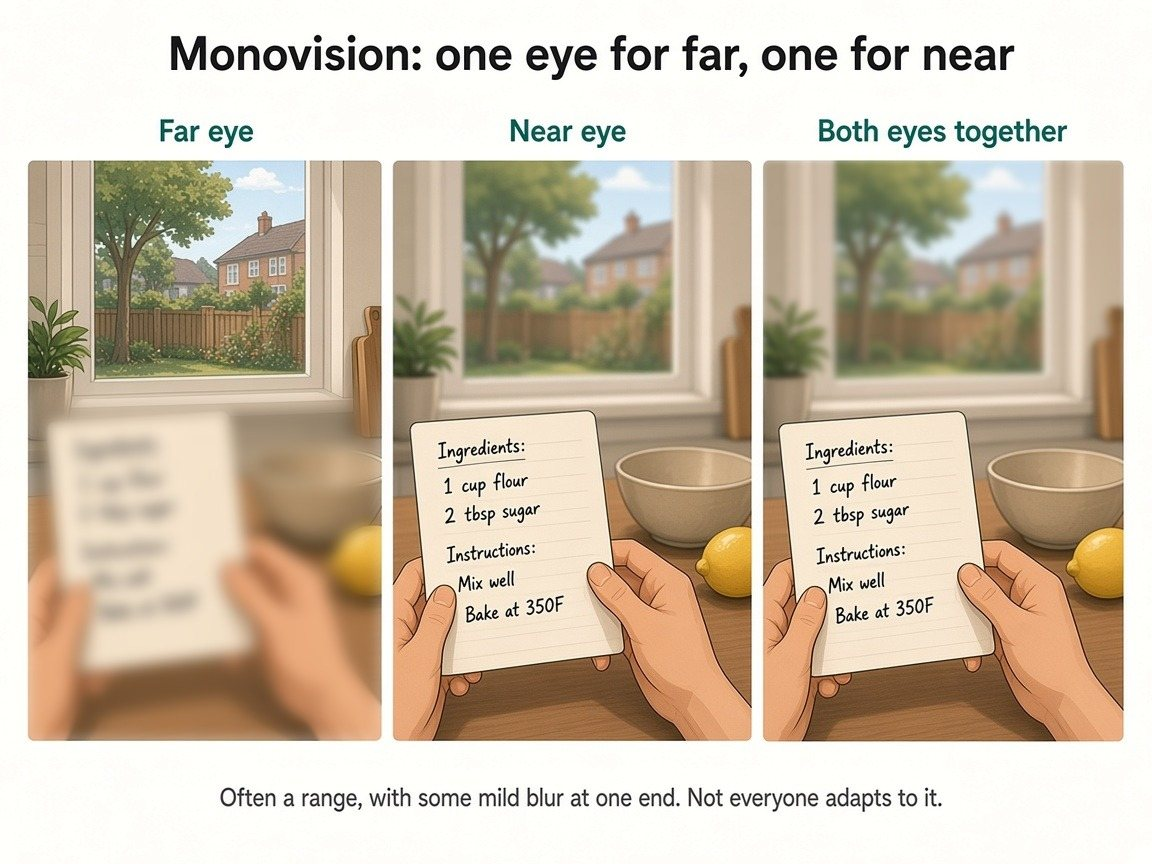
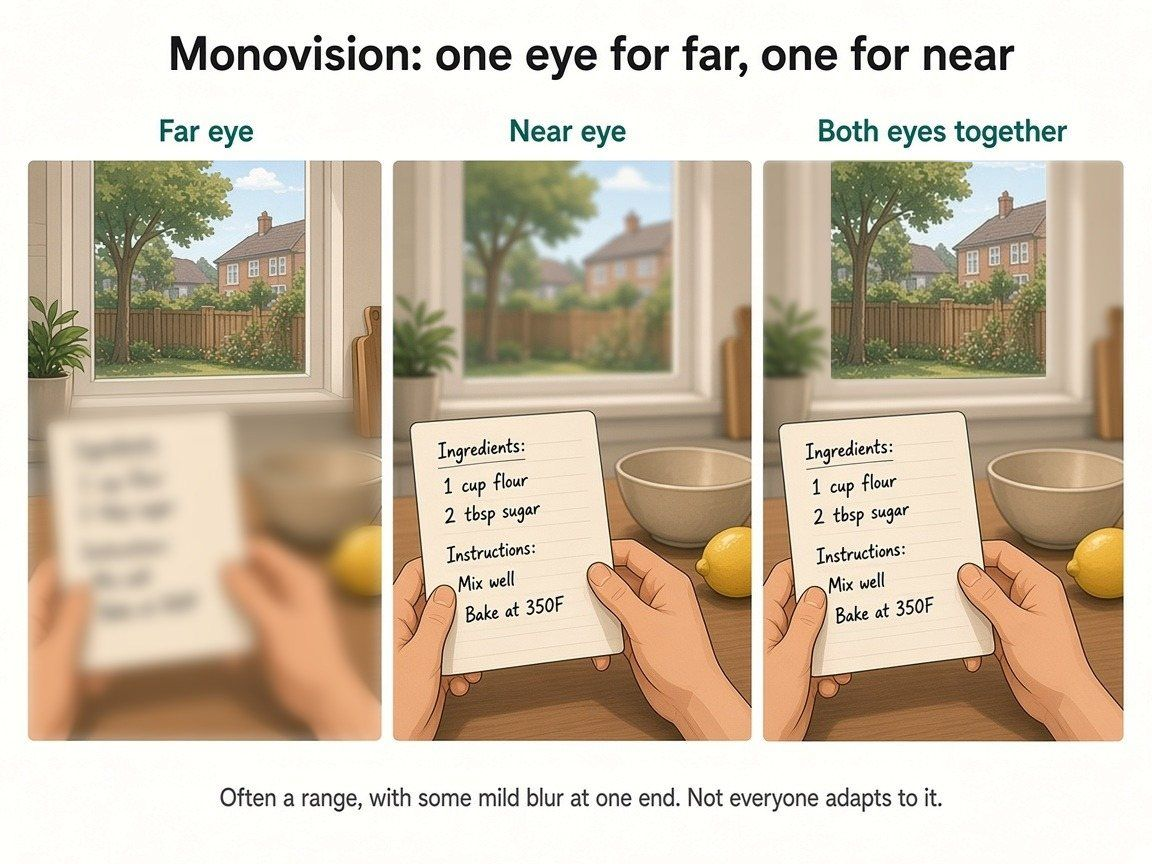
Fix monovision illustration: both distance and near in focus in panel 3
Panel 3 ("Both eyes together") incorrectly showed a blurred garden,
matching the near-eye panel. The sharp garden from panel 1 is now
composited into panel 3's window so both the garden and the recipe
card are in focus. Labels and caption are unchanged.

Cache-bust monovision image URLs with ?v=2.

Changed region(s): [[0.7188, 0.1875, 0.9062, 0.4375]]

diff --git a/index.html b/index.html
@@ -431,7 +431,7 @@
     <span class="kicker">Explore by topic</span>
     <h2>Read only what you need.</h2>
     <p class="concept">Every topic has its own page. Jump in anywhere, come back anytime.</p>
-    <div class="topic-grid"><a class="topic c0" href="/monofocal-vs-multifocal-vs-edof-lens" data-guide-cta="home_topic_lens_types"><div class="t-media"><picture><source srcset="/images/lens-guide/lens-guide-lens-types.webp" type="image/webp"><img src="/images/lens-guide/lens-guide-lens-types.jpg" width="1152" height="864" alt="" decoding="async" loading="lazy" style="object-position:center 0%"></picture></div><div class="t-body"><span class="t-chip"><svg class="ic" aria-hidden="true" focusable="false" xmlns="http://www.w3.org/2000/svg" viewBox="0 0 24 24" fill="none" stroke="currentColor" stroke-width="2" stroke-linecap="round" stroke-linejoin="round" ><path d="M2.062 12.348a1 1 0 0 1 0-.696 10.75 10.75 0 0 1 19.876 0 1 1 0 0 1 0 .696 10.75 10.75 0 0 1-19.876 0" /><circle cx="12" cy="12" r="3" /></svg></span><h3>Lens options compared</h3><p>Three lens types, one simple framework.</p><span class="t-go">Open <svg class="ic ic-arrow" aria-hidden="true" focusable="false" xmlns="http://www.w3.org/2000/svg" viewBox="0 0 24 24" fill="none" stroke="currentColor" stroke-width="2" stroke-linecap="round" stroke-linejoin="round" ><path d="M5 12h14" /><path d="m12 5 7 7-7 7" /></svg></span></div></a><a class="topic c1" href="/which-lens-for-cataract-surgery#goals" data-guide-cta="home_topic_goals"><div class="t-media"><picture><source srcset="/images/lens-guide/lens-guide-goals.webp" type="image/webp"><img src="/images/lens-guide/lens-guide-goals.jpg" width="1152" height="864" alt="" decoding="async" loading="lazy" style="object-position:center 38%"></picture></div><div class="t-body"><span class="t-chip"><svg class="ic" aria-hidden="true" focusable="false" xmlns="http://www.w3.org/2000/svg" viewBox="0 0 24 24" fill="none" stroke="currentColor" stroke-width="2" stroke-linecap="round" stroke-linejoin="round" ><circle cx="12" cy="12" r="10" /><path d="m16.24 7.76-1.804 5.411a2 2 0 0 1-1.265 1.265L7.76 16.24l1.804-5.411a2 2 0 0 1 1.265-1.265z" /></svg></span><h3>Start with your goals</h3><p>Which distances matter most in your day.</p><span class="t-go">Open <svg class="ic ic-arrow" aria-hidden="true" focusable="false" xmlns="http://www.w3.org/2000/svg" viewBox="0 0 24 24" fill="none" stroke="currentColor" stroke-width="2" stroke-linecap="round" stroke-linejoin="round" ><path d="M5 12h14" /><path d="m12 5 7 7-7 7" /></svg></span></div></a><a class="topic c2" href="/halos-after-cataract-surgery" data-guide-cta="home_topic_halos"><div class="t-media"><picture><source srcset="/images/lens-guide/lens-guide-halos.webp" type="image/webp"><img src="/images/lens-guide/lens-guide-halos.jpg" width="1152" height="434" alt="" decoding="async" loading="lazy" style="object-position:center 75%"></picture></div><div class="t-body"><span class="t-chip"><svg class="ic" aria-hidden="true" focusable="false" xmlns="http://www.w3.org/2000/svg" viewBox="0 0 24 24" fill="none" stroke="currentColor" stroke-width="2" stroke-linecap="round" stroke-linejoin="round" ><path d="M20 13c0 5-3.5 7.5-7.66 8.95a1 1 0 0 1-.67-.01C7.5 20.5 4 18 4 13V6a1 1 0 0 1 1-1c2 0 4.5-1.2 6.24-2.72a1.17 1.17 0 0 1 1.52 0C14.51 3.81 17 5 19 5a1 1 0 0 1 1 1z" /><path d="m9 12 2 2 4-4" /></svg></span><h3>Halos and glare</h3><p>What to expect, and when to call your surgeon.</p><span class="t-go">Open <svg class="ic ic-arrow" aria-hidden="true" focusable="false" xmlns="http://www.w3.org/2000/svg" viewBox="0 0 24 24" fill="none" stroke="currentColor" stroke-width="2" stroke-linecap="round" stroke-linejoin="round" ><path d="M5 12h14" /><path d="m12 5 7 7-7 7" /></svg></span></div></a><a class="topic c3" href="/toric-lens-astigmatism-cataract-surgery" data-guide-cta="home_topic_toric"><div class="t-media"><picture><source srcset="/images/lens-guide/lens-guide-toric.webp" type="image/webp"><img src="/images/lens-guide/lens-guide-toric.jpg" width="1152" height="648" alt="" decoding="async" loading="lazy" style="object-position:center 45%"></picture></div><div class="t-body"><span class="t-chip"><svg class="ic" aria-hidden="true" focusable="false" xmlns="http://www.w3.org/2000/svg" viewBox="0 0 24 24" fill="none" stroke="currentColor" stroke-width="2" stroke-linecap="round" stroke-linejoin="round" ><path d="M21 12a9 9 0 1 1-9-9c2.52 0 4.93 1 6.74 2.74L21 8" /><path d="M21 3v5h-5" /></svg></span><h3>Toric lenses and astigmatism</h3><p>What a toric lens is designed to do.</p><span class="t-go">Open <svg class="ic ic-arrow" aria-hidden="true" focusable="false" xmlns="http://www.w3.org/2000/svg" viewBox="0 0 24 24" fill="none" stroke="currentColor" stroke-width="2" stroke-linecap="round" stroke-linejoin="round" ><path d="M5 12h14" /><path d="m12 5 7 7-7 7" /></svg></span></div></a><a class="topic c4" href="/questions-to-ask-cataract-surgeon" data-guide-cta="home_topic_questions"><div class="t-media"><picture><source srcset="/images/lens-guide/lens-guide-questions.webp" type="image/webp"><img src="/images/lens-guide/lens-guide-questions.jpg" width="1152" height="864" alt="" decoding="async" loading="lazy" style="object-position:center 30%"></picture></div><div class="t-body"><span class="t-chip"><svg class="ic" aria-hidden="true" focusable="false" xmlns="http://www.w3.org/2000/svg" viewBox="0 0 24 24" fill="none" stroke="currentColor" stroke-width="2" stroke-linecap="round" stroke-linejoin="round" ><path d="M13 5h8" /><path d="M13 12h8" /><path d="M13 19h8" /><path d="m3 17 2 2 4-4" /><path d="m3 7 2 2 4-4" /></svg></span><h3>Questions to ask your surgeon</h3><p>A short list to bring to your consult.</p><span class="t-go">Open <svg class="ic ic-arrow" aria-hidden="true" focusable="false" xmlns="http://www.w3.org/2000/svg" viewBox="0 0 24 24" fill="none" stroke="currentColor" stroke-width="2" stroke-linecap="round" stroke-linejoin="round" ><path d="M5 12h14" /><path d="m12 5 7 7-7 7" /></svg></span></div></a><a class="topic c6" href="/monovision-cataract-surgery" data-guide-cta="home_topic_monovision"><div class="t-media"><picture><source srcset="/images/lens-guide/lens-guide-monovision.webp" type="image/webp"><img src="/images/lens-guide/lens-guide-monovision.jpg" width="1152" height="864" alt="" decoding="async" loading="lazy" style="object-position:center 40%"></picture></div><div class="t-body"><span class="t-chip"><svg class="ic" aria-hidden="true" focusable="false" xmlns="http://www.w3.org/2000/svg" viewBox="0 0 24 24" fill="none" stroke="currentColor" stroke-width="2" stroke-linecap="round" stroke-linejoin="round" ><circle cx="12" cy="12" r="3" /><path d="M3 7V5a2 2 0 0 1 2-2h2" /><path d="M17 3h2a2 2 0 0 1 2 2v2" /><path d="M21 17v2a2 2 0 0 1-2 2h-2" /><path d="M7 21H5a2 2 0 0 1-2-2v-2" /></svg></span><h3>Monovision</h3><p>One eye set for far, the other for near.</p><span class="t-go">Open <svg class="ic ic-arrow" aria-hidden="true" focusable="false" xmlns="http://www.w3.org/2000/svg" viewBox="0 0 24 24" fill="none" stroke="currentColor" stroke-width="2" stroke-linecap="round" stroke-linejoin="round" ><path d="M5 12h14" /><path d="m12 5 7 7-7 7" /></svg></span></div></a><a class="topic c5" href="/which-lens-for-cataract-surgery" data-guide-cta="guide_online"><div class="t-media"><picture><source srcset="/images/lens-guide/lens-guide-booklet.webp" type="image/webp"><img src="/images/lens-guide/lens-guide-booklet.jpg" width="1152" height="864" alt="" decoding="async" loading="lazy" style="object-position:center 38%"></picture></div><div class="t-body"><span class="t-chip"><svg class="ic" aria-hidden="true" focusable="false" xmlns="http://www.w3.org/2000/svg" viewBox="0 0 24 24" fill="none" stroke="currentColor" stroke-width="2" stroke-linecap="round" stroke-linejoin="round" ><path d="M12 5v16" /><path d="M20.001 19A2 2 0 0022 17V5a2 2 0 00-1.999-2L16 3.002A5 5 0 0012 5a5 5 0 00-4-2H4a2 2 0 00-2 2v12a2 2 0 001.999 2H8a5 5 0 014 2 5 5 0 014-2z" /></svg></span><h3>The full lens guide</h3><p>Everything in one place, at your own pace.</p><span class="t-go">Open <svg class="ic ic-arrow" aria-hidden="true" focusable="false" xmlns="http://www.w3.org/2000/svg" viewBox="0 0 24 24" fill="none" stroke="currentColor" stroke-width="2" stroke-linecap="round" stroke-linejoin="round" ><path d="M5 12h14" /><path d="m12 5 7 7-7 7" /></svg></span></div></a></div>
+    <div class="topic-grid"><a class="topic c0" href="/monofocal-vs-multifocal-vs-edof-lens" data-guide-cta="home_topic_lens_types"><div class="t-media"><picture><source srcset="/images/lens-guide/lens-guide-lens-types.webp" type="image/webp"><img src="/images/lens-guide/lens-guide-lens-types.jpg" width="1152" height="864" alt="" decoding="async" loading="lazy" style="object-position:center 0%"></picture></div><div class="t-body"><span class="t-chip"><svg class="ic" aria-hidden="true" focusable="false" xmlns="http://www.w3.org/2000/svg" viewBox="0 0 24 24" fill="none" stroke="currentColor" stroke-width="2" stroke-linecap="round" stroke-linejoin="round" ><path d="M2.062 12.348a1 1 0 0 1 0-.696 10.75 10.75 0 0 1 19.876 0 1 1 0 0 1 0 .696 10.75 10.75 0 0 1-19.876 0" /><circle cx="12" cy="12" r="3" /></svg></span><h3>Lens options compared</h3><p>Three lens types, one simple framework.</p><span class="t-go">Open <svg class="ic ic-arrow" aria-hidden="true" focusable="false" xmlns="http://www.w3.org/2000/svg" viewBox="0 0 24 24" fill="none" stroke="currentColor" stroke-width="2" stroke-linecap="round" stroke-linejoin="round" ><path d="M5 12h14" /><path d="m12 5 7 7-7 7" /></svg></span></div></a><a class="topic c1" href="/which-lens-for-cataract-surgery#goals" data-guide-cta="home_topic_goals"><div class="t-media"><picture><source srcset="/images/lens-guide/lens-guide-goals.webp" type="image/webp"><img src="/images/lens-guide/lens-guide-goals.jpg" width="1152" height="864" alt="" decoding="async" loading="lazy" style="object-position:center 38%"></picture></div><div class="t-body"><span class="t-chip"><svg class="ic" aria-hidden="true" focusable="false" xmlns="http://www.w3.org/2000/svg" viewBox="0 0 24 24" fill="none" stroke="currentColor" stroke-width="2" stroke-linecap="round" stroke-linejoin="round" ><circle cx="12" cy="12" r="10" /><path d="m16.24 7.76-1.804 5.411a2 2 0 0 1-1.265 1.265L7.76 16.24l1.804-5.411a2 2 0 0 1 1.265-1.265z" /></svg></span><h3>Start with your goals</h3><p>Which distances matter most in your day.</p><span class="t-go">Open <svg class="ic ic-arrow" aria-hidden="true" focusable="false" xmlns="http://www.w3.org/2000/svg" viewBox="0 0 24 24" fill="none" stroke="currentColor" stroke-width="2" stroke-linecap="round" stroke-linejoin="round" ><path d="M5 12h14" /><path d="m12 5 7 7-7 7" /></svg></span></div></a><a class="topic c2" href="/halos-after-cataract-surgery" data-guide-cta="home_topic_halos"><div class="t-media"><picture><source srcset="/images/lens-guide/lens-guide-halos.webp" type="image/webp"><img src="/images/lens-guide/lens-guide-halos.jpg" width="1152" height="434" alt="" decoding="async" loading="lazy" style="object-position:center 75%"></picture></div><div class="t-body"><span class="t-chip"><svg class="ic" aria-hidden="true" focusable="false" xmlns="http://www.w3.org/2000/svg" viewBox="0 0 24 24" fill="none" stroke="currentColor" stroke-width="2" stroke-linecap="round" stroke-linejoin="round" ><path d="M20 13c0 5-3.5 7.5-7.66 8.95a1 1 0 0 1-.67-.01C7.5 20.5 4 18 4 13V6a1 1 0 0 1 1-1c2 0 4.5-1.2 6.24-2.72a1.17 1.17 0 0 1 1.52 0C14.51 3.81 17 5 19 5a1 1 0 0 1 1 1z" /><path d="m9 12 2 2 4-4" /></svg></span><h3>Halos and glare</h3><p>What to expect, and when to call your surgeon.</p><span class="t-go">Open <svg class="ic ic-arrow" aria-hidden="true" focusable="false" xmlns="http://www.w3.org/2000/svg" viewBox="0 0 24 24" fill="none" stroke="currentColor" stroke-width="2" stroke-linecap="round" stroke-linejoin="round" ><path d="M5 12h14" /><path d="m12 5 7 7-7 7" /></svg></span></div></a><a class="topic c3" href="/toric-lens-astigmatism-cataract-surgery" data-guide-cta="home_topic_toric"><div class="t-media"><picture><source srcset="/images/lens-guide/lens-guide-toric.webp" type="image/webp"><img src="/images/lens-guide/lens-guide-toric.jpg" width="1152" height="648" alt="" decoding="async" loading="lazy" style="object-position:center 45%"></picture></div><div class="t-body"><span class="t-chip"><svg class="ic" aria-hidden="true" focusable="false" xmlns="http://www.w3.org/2000/svg" viewBox="0 0 24 24" fill="none" stroke="currentColor" stroke-width="2" stroke-linecap="round" stroke-linejoin="round" ><path d="M21 12a9 9 0 1 1-9-9c2.52 0 4.93 1 6.74 2.74L21 8" /><path d="M21 3v5h-5" /></svg></span><h3>Toric lenses and astigmatism</h3><p>What a toric lens is designed to do.</p><span class="t-go">Open <svg class="ic ic-arrow" aria-hidden="true" focusable="false" xmlns="http://www.w3.org/2000/svg" viewBox="0 0 24 24" fill="none" stroke="currentColor" stroke-width="2" stroke-linecap="round" stroke-linejoin="round" ><path d="M5 12h14" /><path d="m12 5 7 7-7 7" /></svg></span></div></a><a class="topic c4" href="/questions-to-ask-cataract-surgeon" data-guide-cta="home_topic_questions"><div class="t-media"><picture><source srcset="/images/lens-guide/lens-guide-questions.webp" type="image/webp"><img src="/images/lens-guide/lens-guide-questions.jpg" width="1152" height="864" alt="" decoding="async" loading="lazy" style="object-position:center 30%"></picture></div><div class="t-body"><span class="t-chip"><svg class="ic" aria-hidden="true" focusable="false" xmlns="http://www.w3.org/2000/svg" viewBox="0 0 24 24" fill="none" stroke="currentColor" stroke-width="2" stroke-linecap="round" stroke-linejoin="round" ><path d="M13 5h8" /><path d="M13 12h8" /><path d="M13 19h8" /><path d="m3 17 2 2 4-4" /><path d="m3 7 2 2 4-4" /></svg></span><h3>Questions to ask your surgeon</h3><p>A short list to bring to your consult.</p><span class="t-go">Open <svg class="ic ic-arrow" aria-hidden="true" focusable="false" xmlns="http://www.w3.org/2000/svg" viewBox="0 0 24 24" fill="none" stroke="currentColor" stroke-width="2" stroke-linecap="round" stroke-linejoin="round" ><path d="M5 12h14" /><path d="m12 5 7 7-7 7" /></svg></span></div></a><a class="topic c6" href="/monovision-cataract-surgery" data-guide-cta="home_topic_monovision"><div class="t-media"><picture><source srcset="/images/lens-guide/lens-guide-monovision.webp?v=2" type="image/webp"><img src="/images/lens-guide/lens-guide-monovision.jpg?v=2" width="1152" height="864" alt="" decoding="async" loading="lazy" style="object-position:center 40%"></picture></div><div class="t-body"><span class="t-chip"><svg class="ic" aria-hidden="true" focusable="false" xmlns="http://www.w3.org/2000/svg" viewBox="0 0 24 24" fill="none" stroke="currentColor" stroke-width="2" stroke-linecap="round" stroke-linejoin="round" ><circle cx="12" cy="12" r="3" /><path d="M3 7V5a2 2 0 0 1 2-2h2" /><path d="M17 3h2a2 2 0 0 1 2 2v2" /><path d="M21 17v2a2 2 0 0 1-2 2h-2" /><path d="M7 21H5a2 2 0 0 1-2-2v-2" /></svg></span><h3>Monovision</h3><p>One eye set for far, the other for near.</p><span class="t-go">Open <svg class="ic ic-arrow" aria-hidden="true" focusable="false" xmlns="http://www.w3.org/2000/svg" viewBox="0 0 24 24" fill="none" stroke="currentColor" stroke-width="2" stroke-linecap="round" stroke-linejoin="round" ><path d="M5 12h14" /><path d="m12 5 7 7-7 7" /></svg></span></div></a><a class="topic c5" href="/which-lens-for-cataract-surgery" data-guide-cta="guide_online"><div class="t-media"><picture><source srcset="/images/lens-guide/lens-guide-booklet.webp" type="image/webp"><img src="/images/lens-guide/lens-guide-booklet.jpg" width="1152" height="864" alt="" decoding="async" loading="lazy" style="object-position:center 38%"></picture></div><div class="t-body"><span class="t-chip"><svg class="ic" aria-hidden="true" focusable="false" xmlns="http://www.w3.org/2000/svg" viewBox="0 0 24 24" fill="none" stroke="currentColor" stroke-width="2" stroke-linecap="round" stroke-linejoin="round" ><path d="M12 5v16" /><path d="M20.001 19A2 2 0 0022 17V5a2 2 0 00-1.999-2L16 3.002A5 5 0 0012 5a5 5 0 00-4-2H4a2 2 0 00-2 2v12a2 2 0 001.999 2H8a5 5 0 014 2 5 5 0 014-2z" /></svg></span><h3>The full lens guide</h3><p>Everything in one place, at your own pace.</p><span class="t-go">Open <svg class="ic ic-arrow" aria-hidden="true" focusable="false" xmlns="http://www.w3.org/2000/svg" viewBox="0 0 24 24" fill="none" stroke="currentColor" stroke-width="2" stroke-linecap="round" stroke-linejoin="round" ><path d="M5 12h14" /><path d="m12 5 7 7-7 7" /></svg></span></div></a></div>
     <div class="guides" id="free-guides">
       <div><h3>Not ready yet? Start with the free guides.</h3>
         <p>The IOL Comparison Chart, the Options framework guide and the Pre-Consult Prep guide, sent to your email. Free, no obligation.</p></div>

diff --git a/monovision-cataract-surgery.html b/monovision-cataract-surgery.html
@@ -323,7 +323,7 @@
 <p class="byline">By Martin de la Presa, MD, Founder, ClarityIQ · board-certified ophthalmologist</p>
 <p class="updated">Last updated November 23, 2026.</p>
 <p class="share-inline ciq-share-wrap"><button type="button" class="ciq-share" data-share-surface="guide_monovision">Send this to a family member</button></p>
-</div><figure class="hero-art illus"><picture><source srcset="/images/lens-guide/lens-guide-monovision.webp" type="image/webp"><img src="/images/lens-guide/lens-guide-monovision.jpg" width="1152" height="864" alt="" decoding="async" style="object-position:center 40%"></picture></figure></div></div>
+</div><figure class="hero-art illus"><picture><source srcset="/images/lens-guide/lens-guide-monovision.webp?v=2" type="image/webp"><img src="/images/lens-guide/lens-guide-monovision.jpg?v=2" width="1152" height="864" alt="" decoding="async" style="object-position:center 40%"></picture></figure></div></div>
 
 <p>Monovision is a setup, usually with monofocal lenses, not a lens category. One eye is set for distance and the other for near, or sometimes for arm's length (a milder version called mini-monovision). Together, the two eyes cover more distances. You may still need glasses for some tasks, such as night driving or long reading.</p>
 <p class="note">This page will not tell you whether to choose monovision. That choice belongs to you and your surgeon. Ask the same questions no matter which option you are considering. You can use this page at any point before the lens is implanted — before your consult, after it, or as a second look.</p>
@@ -354,8 +354,8 @@
 
 <figure class="lens-fig" id="fig-monovision">
   <picture>
-    <source srcset="/images/lens-guide/lens-guide-monovision.webp" type="image/webp">
-    <img src="/images/lens-guide/lens-guide-monovision.jpg" width="1152" height="864" loading="lazy" decoding="async" alt="Three views of the same kitchen. Far eye: the garden outside the window is in focus and the recipe card in hand is blurred. Near eye: the recipe card is easy to read and the garden is blurred. Both eyes together: both the garden and the recipe card are easier to see.">
+    <source srcset="/images/lens-guide/lens-guide-monovision.webp?v=2" type="image/webp">
+    <img src="/images/lens-guide/lens-guide-monovision.jpg?v=2" width="1152" height="864" loading="lazy" decoding="async" alt="Three views of the same kitchen. Far eye: the garden outside the window is in focus and the recipe card in hand is blurred. Near eye: the recipe card is easy to read and the garden is blurred. Both eyes together: both the garden and the recipe card are easier to see.">
   </picture>
   <figcaption>One eye is set for far and the other for near.</figcaption>
 </figure>

diff --git a/which-lens-for-cataract-surgery.html b/which-lens-for-cataract-surgery.html
@@ -402,8 +402,8 @@
 <p>Monovision is a setup, usually with monofocal lenses, not a lens category. One eye is set for distance and the other for near, or sometimes for arm's length (a milder version called mini-monovision). Together, the two eyes cover more distances. You may still need glasses for some tasks, such as night driving or long reading.</p>
 <figure class="lens-fig" id="fig-monovision">
   <picture>
-    <source srcset="/images/lens-guide/lens-guide-monovision.webp" type="image/webp">
-    <img src="/images/lens-guide/lens-guide-monovision.jpg" width="1152" height="864" loading="lazy" decoding="async" alt="Three views of the same kitchen. Far eye: the garden outside the window is in focus and the recipe card in hand is blurred. Near eye: the recipe card is easy to read and the garden is blurred. Both eyes together: both the garden and the recipe card are easier to see.">
+    <source srcset="/images/lens-guide/lens-guide-monovision.webp?v=2" type="image/webp">
+    <img src="/images/lens-guide/lens-guide-monovision.jpg?v=2" width="1152" height="864" loading="lazy" decoding="async" alt="Three views of the same kitchen. Far eye: the garden outside the window is in focus and the recipe card in hand is blurred. Near eye: the recipe card is easy to read and the garden is blurred. Both eyes together: both the garden and the recipe card are easier to see.">
   </picture>
   <figcaption>One eye is set for far and the other for near.</figcaption>
 </figure>

diff --git a/monofocal-vs-multifocal-vs-edof-lens.html b/monofocal-vs-multifocal-vs-edof-lens.html
@@ -427,8 +427,8 @@
 <p>Monovision is a setup, usually with monofocal lenses. One eye is set for far and the other for near, or for arm's length in a milder version called mini-monovision. Together, the two eyes cover more distances. You may still need glasses for some tasks, such as night driving or long reading.</p>
 <figure class="lens-fig" id="fig-monovision">
   <picture>
-    <source srcset="/images/lens-guide/lens-guide-monovision.webp" type="image/webp">
-    <img src="/images/lens-guide/lens-guide-monovision.jpg" width="1152" height="864" loading="lazy" decoding="async" alt="Three views of the same kitchen. Far eye: the garden outside the window is in focus and the recipe card in hand is blurred. Near eye: the recipe card is easy to read and the garden is blurred. Both eyes together: both the garden and the recipe card are easier to see.">
+    <source srcset="/images/lens-guide/lens-guide-monovision.webp?v=2" type="image/webp">
+    <img src="/images/lens-guide/lens-guide-monovision.jpg?v=2" width="1152" height="864" loading="lazy" decoding="async" alt="Three views of the same kitchen. Far eye: the garden outside the window is in focus and the recipe card in hand is blurred. Near eye: the recipe card is easy to read and the garden is blurred. Both eyes together: both the garden and the recipe card are easier to see.">
   </picture>
   <figcaption>One eye is set for far and the other for near.</figcaption>
 </figure>
